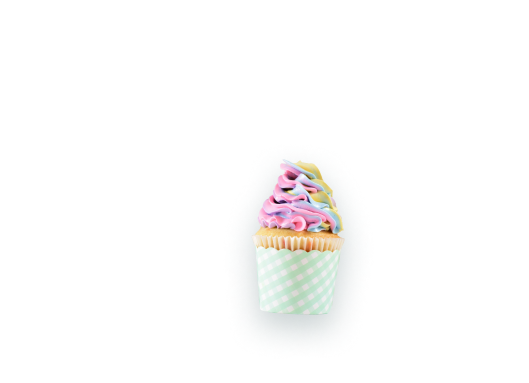
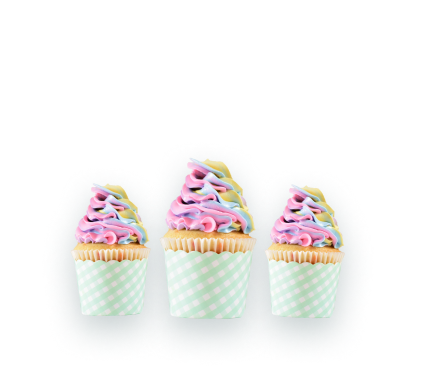
25-Feb-2024

Changed region(s): [[0.1474, 0.4031, 0.7959, 0.8927]]

diff --git a/src/components/Discount.tsx b/src/components/Discount.tsx
@@ -1,0 +1,122 @@
+import { RiMailLine, RiLockPasswordLine } from 'react-icons/ri';
+import { motion } from 'framer-motion';
+const Discount = () => {
+    return (
+        <>
+            <section className='disocunt bg-[#E9F3F8]'>
+                <div className='container'>
+                    <div className='flex  h-[375px] p-3'>
+                        <div className='w-1/2 flex justify-center items-center'>
+                            <div className='flex flex-col' style={{ lineHeight: '55px' }}>
+                                <span className='font-nunito text-[50px] font-bold'>
+                                    Get{' '}
+                                    <span className='text-[#ab6b36] font-bold '>
+                                        20% Discount
+                                    </span>
+                                </span>
+                                <span className='text-[50px] font-bold'>
+                                    On Your First
+                                </span>
+                                <span className='text-[50px] font-bold'>Purchase</span>
+                            </div>
+                        </div>
+                        <div className='w-1/2 flex justify-center my-4'>
+                            <motion.form
+                                initial={{ opacity: 0, y: 50 }} // Initial animation values
+                                animate={{ opacity: 1, y: 0 }} // Animation to apply when the component mounts
+                                exit={{ opacity: 0, y: 50 }} // Animation to apply when the component unmounts
+                                transition={{ duration: 0.5 }} // Animation duration
+                                className='...' // Your existing classes here
+                            >
+                                <div className='mb-4'>
+                                    <label
+                                        htmlFor='email'
+                                        className='block text-gray-700 text-sm font-medium mb-2'
+                                    >
+                                        Email
+                                    </label>
+                                    <div className='relative'>
+                                        <motion.input
+                                            type='email'
+                                            id='email'
+                                            required
+                                            name='email'
+                                            placeholder='Your Email'
+                                            className='w-96 py-2 pl-10 pr-4 border border-gray-300 rounded-md focus:outline-none focus:border-indigo-500'
+                                            initial={{ x: -20, opacity: 0 }} // Initial animation values
+                                            animate={{ x: 0, opacity: 1 }} // Animation to apply when the component mounts
+                                            transition={{ delay: 0.2 }} // Animation delay
+                                        />
+                                        <RiMailLine className='absolute top-3 left-3 text-gray-500' />
+                                    </div>
+                                </div>
+
+                                <div className='mb-4'>
+                                    <label
+                                        htmlFor='password'
+                                        className='block text-gray-700 text-sm font-medium mb-2'
+                                    >
+                                        Password
+                                    </label>
+                                    <div className='relative'>
+                                        <motion.input
+                                            type='password'
+                                            id='password'
+                                            required
+                                            name='password'
+                                            placeholder='Your Password'
+                                            className='w-96 py-2 pl-10 pr-4 border border-gray-300 rounded-md focus:outline-none focus:border-indigo-500'
+                                            initial={{ x: -20, opacity: 0 }} // Initial animation values
+                                            animate={{ x: 0, opacity: 1 }} // Animation to apply when the component mounts
+                                            transition={{ delay: 0.3 }} // Animation delay
+                                        />
+                                        <RiLockPasswordLine className='absolute top-3 left-3 text-gray-500' />
+                                    </div>
+                                </div>
+
+                                <div className='mb-4'>
+                                    <label
+                                        htmlFor='repeatPassword'
+                                        className='block text-gray-700 text-sm font-medium mb-2'
+                                    >
+                                        Repeat Password
+                                    </label>
+                                    <div className='relative'>
+                                        <motion.input
+                                            type='password'
+                                            id='repeatPassword'
+                                            name='repeatPassword'
+                                            placeholder='Repeat Password'
+                                            required
+                                            className='w-96 py-2 pl-10 pr-4 border border-gray-300 rounded-md focus:outline-none focus:border-indigo-500'
+                                            initial={{ x: -20, opacity: 0 }} // Initial animation values
+                                            animate={{ x: 0, opacity: 1 }} // Animation to apply when the component mounts
+                                            transition={{ delay: 0.4 }} // Animation delay
+                                        />
+                                        <RiLockPasswordLine className='absolute top-3 left-3 text-gray-500' />
+                                    </div>
+                                </div>
+
+                                <motion.button
+                                    type='submit'
+                                    className='bg-[#252525] hover:bg-[#00d1d1] text-white font-medium hover:text-[#222] py-2 px-4 rounded w-96'
+                                    whileHover={{
+                                        scale: 1.1,
+                                        transition: {
+                                            duration: 0.6,
+                                        },
+                                    }}
+                                    whileTap={{ scale: 0.9 }}
+                                >
+                                    Submit
+                                </motion.button>
+                            </motion.form>
+                        </div>
+                    </div>
+                </div>
+            </section>
+        </>
+    );
+};
+
+export default Discount;

diff --git a/src/components/Offers.tsx b/src/components/Offers.tsx
@@ -1,0 +1,158 @@
+// import { IoTimeSharp } from 'react-icons/io5';
+import { useState } from 'react';
+import Barista from '../images/barista.png';
+import Kombuccha from '../images/kombuccha.png';
+import Lays from '../images/lays.png';
+import Oat from '../images/oat-milk.png';
+import Relax from '../images/relax-heart.png';
+import { TiStarFullOutline } from 'react-icons/ti';
+import { FaCartShopping } from 'react-icons/fa6';
+
+const Offers = () => {
+    const [OfferedProducts, SetOfferedProducts] = useState([
+        {
+            id: 1,
+            name: 'Pacific barista beverage',
+            price: '$50',
+            sold: '30/40',
+            image: Barista,
+            description: 'This is a product description',
+            units: 0,
+            rating: 4.5,
+        },
+        {
+            id: 2,
+            name: 'Kombucha local lilikoi',
+            price: '$25',
+            sold: '9/25',
+            image: Kombuccha,
+            description: 'This is a product description',
+            units: 0,
+            rating: 4.2,
+        },
+        {
+            id: 3,
+            name: 'Cheese flavoured Lays',
+            price: '$19',
+            sold: '12/60',
+            image: Lays,
+            description: 'This is a product description',
+            units: 0,
+            rating: 4.5,
+        },
+        {
+            id: 4,
+            name: 'Oat milk barista',
+            price: '$25',
+            sold: '12/35',
+            image: Oat,
+            description: 'This is a product description',
+            units: 0,
+            rating: 3.9,
+        },
+        {
+            id: 5,
+            name: 'Dr. raw relax hearts',
+            price: '$22',
+            sold: '10/25',
+            image: Relax,
+            description: 'This is a product description',
+            units: 0,
+            rating: 4.2,
+        },
+    ]);
+
+    const handleUnitChange = (index: number, action: string) => {
+        const updatedProducts = [...OfferedProducts];
+        updatedProducts[index].units =
+            action === 'increase'
+                ? updatedProducts[index].units + 1
+                : Math.max(updatedProducts[index].units - 1, 0);
+        SetOfferedProducts(updatedProducts);
+    };
+
+    return (
+        <>
+            <section className='container'>
+                <div className='flex justify-between'>
+                    <h2 className='font-nunito font-bold text-[30px] text-[#222]'>
+                        Top Offered Products
+                    </h2>
+                    {/* <div className='bg-[#FFC43F] inline-flex items-center p-2 rounded-md'>
+                        <IoTimeSharp className='text-[20px] m-1' />
+                        <span className='font-medium text-base'>
+                            Expires In: {timeRemaining.hours}hr : {timeRemaining.minutes}
+                            min : {timeRemaining.seconds}s
+                        </span>
+                    </div> */}
+                </div>
+                <div className='flex flex-wrap my-4'>
+                    {OfferedProducts.map((product, index) => (
+                        <div className='w-full sm:w-1/2 md:w-1/5 px-3 mb-4'>
+                            <div
+                                key={product.id}
+                                className='card flex flex-col h-full p-4 bg-white border rounded shadow'
+                            >
+                                <img
+                                    src={product.image}
+                                    alt={product.name}
+                                    className='w-full h-auto max-w-full object-cover mb-4 transform transition duration-500 
+                                    hover:scale-110'
+                                    style={{
+                                        width: '100%',
+                                        height: '200px',
+                                        objectFit: 'cover',
+                                    }}
+                                />
+                                <h2 className='text-lg font-semibold mb-2 text-[#1E1E1E]'>
+                                    {product.name}
+                                </h2>
+                                <div className='mt-auto inline-flex items-center'>
+                                    <TiStarFullOutline className='mx-1 text-[#FFC43F]' />
+                                    <span>{product.rating}</span>
+                                </div>
+                                <p className='text-gray-600 py-3 text-xl font-bold'>
+                                    {product.price}
+                                </p>
+                                <p className='text-[#ED8939] mb-2'>
+                                    Sold: {product.sold}
+                                </p>
+                                <div className='mt-auto inline-flex items-center text-sm text-gray-500'>
+                                    <button
+                                        onClick={() =>
+                                            handleUnitChange(index, 'decrease')
+                                        }
+                                        className='bg-gray-200 px-2 py-1 rounded-l cursor-pointer'
+                                    >
+                                        -
+                                    </button>
+                                    <span className='px-2'>{product.units}</span>
+                                    <button
+                                        onClick={() =>
+                                            handleUnitChange(index, 'increase')
+                                        }
+                                        className='bg-gray-200 px-2 py-1 rounded-r cursor-pointer'
+                                    >
+                                        +
+                                    </button>
+                                    <button
+                                        className='bg-[#FFC43F] text-[#1e1e1e] px-2 py-2 font-semibold rounded cursor-pointer ml-auto'
+                                        style={{
+                                            display: 'inline-flex',
+                                            alignItems: 'center',
+                                        }}
+                                    >
+                                        Add to Cart{' '}
+                                        <FaCartShopping style={{ marginLeft: '5px' }} />
+                                    </button>
+                                </div>
+                            </div>
+                        </div>
+                    ))}
+                </div>
+            </section>
+        </>
+    );
+};
+
+export default Offers;

diff --git a/src/components/Advertisement.tsx b/src/components/Advertisement.tsx
@@ -1,5 +1,7 @@
 import Vector from '../images/vector.png';
 import Vectors from '../images/vector-1.png';
+import Vector2 from '../images/sweet-decoration.png';
+import Vector3 from '../images/cupcake.png';
 
 const Advertisement = () => {
     return (
@@ -18,7 +20,7 @@ const Advertisement = () => {
                         <h3 className='font-nunito absolute top-36 text-4xl text-[#222] font-bold left-10'>
                             Luxa Dark Chocolate
                         </h3>
-                        <p className='font-nunito absolute top-52 text-xl text-[#777] left-10'>
+                        <p className='font-nunito absolute top-52 text-[16px] text-[#777] left-10'>
                             Chocolate is only the happiness that you can eat.
                         </p>
                         <div className='top-64 left-10 absolute'>
@@ -31,28 +33,39 @@ const Advertisement = () => {
                         </div>
                     </div>
                     <div className='w-1/2 ml-auto'>
-                        <h2>vbhjbhv bhj</h2>
+                        <img src={Vector2} alt='Sweet Cupcake' />
                     </div>
                 </div>
             </div>
             <div className='w-650 relative h-400 bg-[#E1F7F9] m-4 rounded-lg'>
-                <img src={Vectors} alt='vector' className=' w-650 h-400 rounded-lg' />
-                <h2 className='absolute top-24 left-10 font-garamond text-2xl text-[#bc4b68]'>
-                    Up To 25% Off
-                </h2>
-                <h3 className='font-nunito absolute top-36 text-4xl text-[#222] font-bold left-10'>
-                    Creamy Muffins
-                </h3>
-                <p className='font-nunito absolute top-52 text-xl text-[#777] left-10'>
-                    Very tasty & creamy vanilla flavour creamy muffins.
-                </p>
-                <div className='top-64 left-10 absolute'>
-                    <button
-                        type='button'
-                        className='bg-[#222] text-white hover:bg-blue-800 focus:outline-none focus:ring-4 focus:ring-blue-300 font-medium rounded-full text-sm px-5 py-2.5 text-center me-2 mb-2 dark:hover:bg-blue-700 dark:focus:ring-blue-800'
-                    >
-                        SHOP IT
-                    </button>
+                <div className='flex'>
+                    <div className='w-1/2'>
+                        <img
+                            src={Vectors}
+                            alt='vector'
+                            className=' w-650 h-400 rounded-lg'
+                        />
+                        <h2 className='absolute top-24 left-10 font-garamond text-2xl text-[#bc4b68]'>
+                            Up To 25% Off
+                        </h2>
+                        <h3 className='font-nunito absolute top-36 text-4xl text-[#222] font-bold left-10'>
+                            Creamy Muffins
+                        </h3>
+                        <p className='font-nunito absolute top-52 text-[16px] text-[#777] left-10'>
+                            Very tasty & creamy vanilla flavour creamy muffins.
+                        </p>
+                        <div className='top-64 left-10 absolute'>
+                            <button
+                                type='button'
+                                className='bg-[#222] text-white hover:bg-blue-800 focus:outline-none focus:ring-4 focus:ring-blue-300 font-medium rounded-full text-sm px-5 py-2.5 text-center me-2 mb-2 dark:hover:bg-blue-700 dark:focus:ring-blue-800'
+                            >
+                                SHOP IT
+                            </button>
+                        </div>
+                    </div>
+                    <div className='w-1/2 ml-auto'>
+                        <img src={Vector3} alt='Sweet Cupcake' />
+                    </div>
                 </div>
             </div>
         </div>

diff --git a/src/App.tsx b/src/App.tsx
@@ -1,8 +1,10 @@
 import Advertisement from './components/Advertisement';
 import Arrival from './components/Arrival';
 import Category from './components/Category';
+import Discount from './components/Discount';
 import Hero from './components/Hero';
 import Navbar from './components/Navbar';
+import Offers from './components/Offers';
 import Trending from './components/Trending';
 
 const App = () => {
@@ -14,6 +16,8 @@ const App = () => {
             <Arrival />
             <Trending />
             <Advertisement />
+            <Offers />
+            <Discount />
         </main>
     );
 };

diff --git a/src/components/Trending.tsx b/src/components/Trending.tsx
@@ -1,6 +1,6 @@
 import { useState } from 'react';
 import Tomatoes from '../images/tomatoes.png';
-import Cucumber from '../images/cucumber.png';
+import Cucumber from '../images/cucumber_995209.png';
 import TomatoKetchup from '../images/tomatoketchup.png';
 import Avacado from '../images/avocado.png';
 import Munchy from '../images/biscuits.png';
